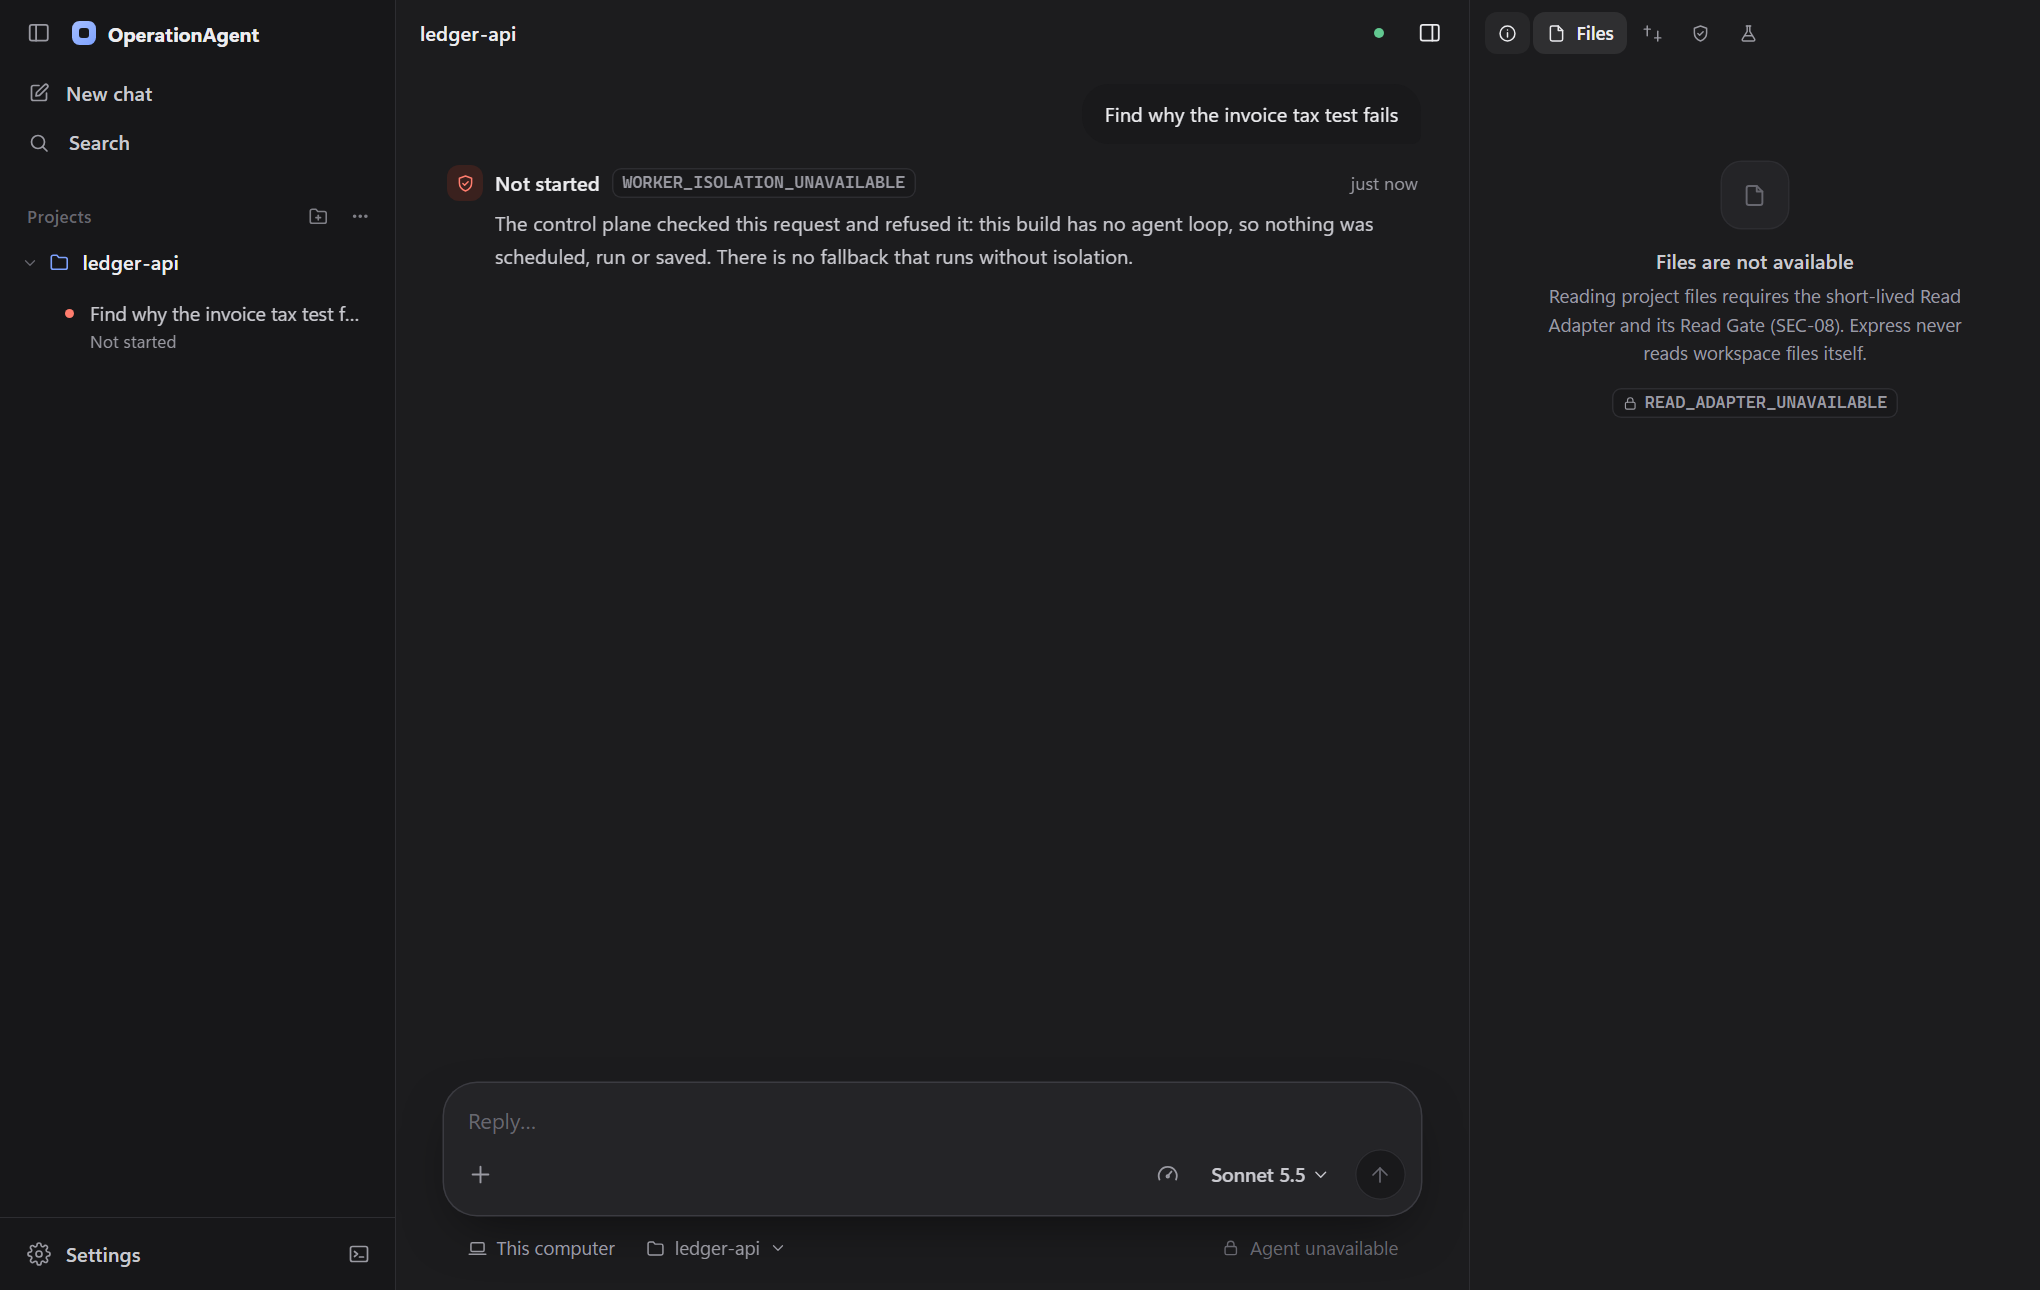
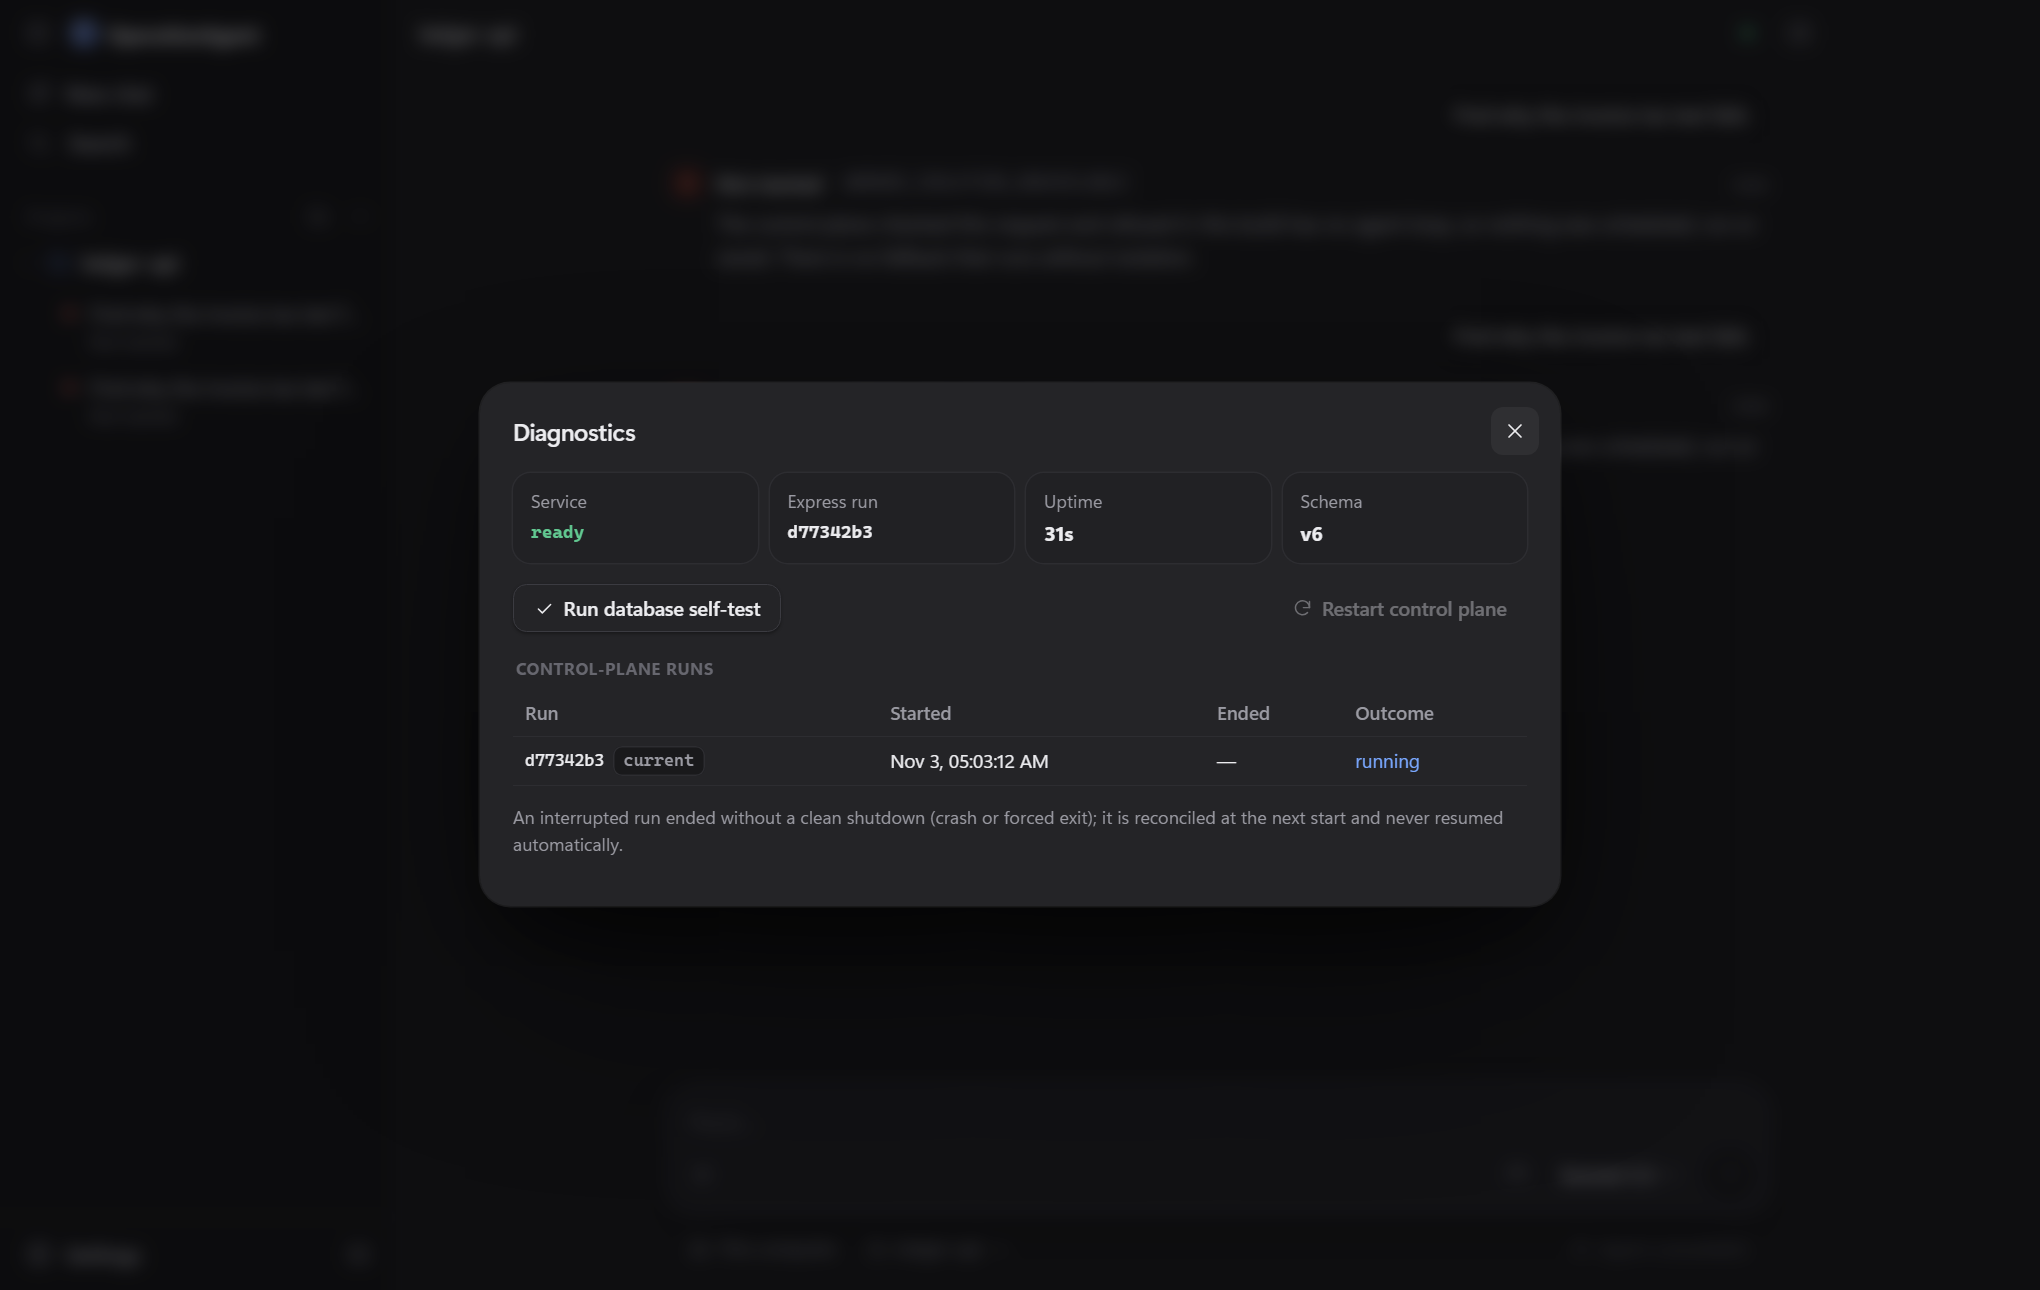
docs: README covers the M2 settings expansion, with new screenshots
Describe multi-provider settings, web-search keys, agent and MCP
configuration (stored only), interface languages and themes; list
account sign-in and custom endpoints as locked behind ADR-PROV-001;
6 migrations. Replace the screenshots with captures of this build,
in Chinese for README.md and English for README.en.md.

diff --git a/README.en.md b/README.en.md
@@ -19,23 +19,26 @@ The project is delivered in gated phases, each with evidence that can be re-chec
 - Persistence: SQLite with versioned migrations; settings, projects and run history survive restarts.
 - Projects: add, switch and remove project folders (only the path is stored; file contents are never read).
 - Task infrastructure: a task state machine, an append-only task event store, snapshot and cursor-paged APIs, and the task list and event timeline in the workbench. Because execution is not enabled yet, submitted requests are refused by the control plane and no task is created.
-- Claude model settings: choose a model; the API key is encrypted by the operating system (Electron `safeStorage`) before it is stored; connection test.
+- Model provider settings: for Anthropic, OpenAI, Google Gemini and OpenRouter you can enter an API key, load the model list and test the connection; keys for web-search providers (Exa, Tavily, Brave, Firecrawl) can be saved. Every key is encrypted by the operating system (Electron `safeStorage`) before it is stored, and the database holds only ciphertext.
+- Agent profiles and MCP server definitions: you can create and edit them, but for now they are configuration only; nothing runs, launches or connects.
+- The interface is available in English, Simplified Chinese and Japanese, with System, Light and Dark themes and eight colour palettes.
 - Diagnostics: control-plane state, a database self-test, run history and the current state of every security capability.
 - The production worker-isolation gate for Windows x64 (SEC-W01) has passed for real on a disposable CI runner.
 
 **Not implemented yet**
 
 - The agent loop: starting a task returns `WORKER_ISOLATION_UNAVAILABLE` and nothing runs.
-- Reading project files (Read Adapter), sandboxes for file writes and shell commands, approvals, MCP.
+- Reading project files (Read Adapter), sandboxes for file writes and shell commands, approvals, the web-search tool, the MCP host.
+- Account sign-in providers and custom model endpoints: proposed in [ADR-PROV-001](docs/adr/ADR-PROV-001.md) (not approved) and locked in the interface until then.
 - Process-level acceptance and SEC-W01 on macOS and Linux (currently NOT_RUN).
 
 Anything not implemented is labelled as unavailable in the interface; the app never shows a capability it doesn't have.
 
-| A task refused by the control plane | Model and credential settings |
+| A task refused by the control plane | Model provider settings |
 | --- | --- |
-| ![Task refused](docs/screenshots/task-refused.png) | ![Model settings](docs/screenshots/settings-models.png) |
+| ![Task refused](docs/screenshots/task-refused.png) | ![Model provider settings](docs/screenshots/settings-providers.png) |
 
-![Dark theme](docs/screenshots/dark-theme.png)
+![Agent profiles in the dark theme](docs/screenshots/dark-theme.png)
 
 ## Progress
 
@@ -45,7 +48,7 @@ Anything not implemented is labelled as unavailable in the interface; the app ne
 | P1 | Desktop app, control plane, persistence, worker launcher, installer and installed-app smoke test | Done (Windows x64, see the [exit report](docs/P1-EXIT-REPORT.md)) |
 | P2.0–P2.3 | Task contracts and state machine, task event store, snapshots and cursor catch-up, workbench task views | Implemented; the CI evidence for the overall P2 exit is not produced yet |
 | M1 | SEC-W01: the Windows production worker-isolation gate | Done (passes on Windows x64) |
-| M2 | Read-only agent: credentials, model gateway, model settings, Read Adapter, agent loop | In progress: credentials, model gateway and model settings are merged; a settings expansion is in review in [PR #10](https://github.com/JaxLim/OperationAgent/pull/10); Read Adapter and agent loop not started |
+| M2 | Read-only agent: credentials, model gateway, model settings, Read Adapter, agent loop | In progress: credentials, model gateway, multi-provider settings, agent and MCP configuration, and interface languages are merged; Read Adapter and agent loop not started |
 | M3 | File writes and shell: sandbox, approvals, command normalization, stop semantics | Not started |
 | M4 | Productization: MCP, signing and updates | Not started |
 
@@ -65,7 +68,7 @@ flowchart LR
 
 - **Desktop**: Electron 45, React 19, TypeScript 5.9, Vite. The renderer only draws the interface and has no access to Node, the file system or keys; the preload exposes a fixed allow-list of calls.
 - **Control plane**: Express 5 in a separate official Node.js 24 process (not Electron's bundled Node), the only reader and writer of the database. The main process establishes the service identity over an inherited channel, then forwards API calls over HMAC-authenticated loopback HTTP.
-- **Persistence**: better-sqlite3 (SQLite 3.53) with 5 versioned SQL migrations; task state and events are committed in the same transaction.
+- **Persistence**: better-sqlite3 (SQLite 3.53) with 6 versioned SQL migrations; task state and events are committed in the same transaction.
 - **Contracts**: `packages/contracts` defines the API, IPC, events and error codes with zod; unit tests cover rejection of unknown fields and illegal state transitions.
 - **Worker isolation (Windows)**: a native WorkerLauncher inside the control plane starts the worker in an AppContainer with a Job Object and talks to it over a single protected, inherited pipe (OWIP/1 framing + JSON-RPC 2.0).
 - **Credentials**: the API key is encrypted and decrypted through the main process's `safeStorage` crypto bridge and used only by the control plane when calling Anthropic; neither the worker nor the interface ever sees it in plain text.
@@ -92,7 +95,7 @@ The full architectural constraints are in [ARCHITECTURE.md](ARCHITECTURE.md) and
 
 1. Get the installer `OperationAgent-0.1.0-win-x64.exe`: build it yourself with the `package` command below, or download the `operationagent-installer-win-x64` artifact from the latest "P1 control plane checks" run on `main` under [Actions](https://github.com/JaxLim/OperationAgent/actions) (requires a GitHub sign-in).
 2. Run the installer. It isn't signed, so Windows SmartScreen may warn about an unknown publisher.
-3. Start OperationAgent from the Start menu or the desktop shortcut, add a project folder, then enter your Anthropic API key under Settings → Models & Credentials and test the connection.
+3. Start OperationAgent from the Start menu or the desktop shortcut, add a project folder, then open Settings → Providers, choose a provider (for example Anthropic), enter its API key and test the connection.
 4. Data is stored in `%APPDATA%\OperationAgent\control-plane\control-plane.sqlite` and kept when you uninstall. To uninstall, use Windows Settings → Apps.
 
 ## Run from source (Windows x64)

diff --git a/README.md b/README.md
@@ -8,7 +8,7 @@ OperationAgent 是一个**安全优先**的桌面 AI 编程 Agent，基于 Elect
 
 项目分阶段推进，每个阶段都留有可以复查的验收证据。**目前处于 M2 阶段：桌面应用、控制面、持久化和模型设置已经能用，但 Agent 还不能执行任务。**
 
-![工作台](docs/screenshots/workbench.png)
+![工作台](docs/screenshots/workbench-zh.png)
 
 ## 当前状态
 
@@ -19,23 +19,26 @@ OperationAgent 是一个**安全优先**的桌面 AI 编程 Agent，基于 Elect
 - 持久化：SQLite + 版本化迁移，设置、项目和运行记录重启后都还在。
 - 项目管理：添加、切换、移除项目文件夹（只记路径，不读取文件内容）。
 - 任务基础设施：任务状态机、只追加的任务事件存储、快照与游标分页接口，以及工作台里的任务列表和事件时间线。因为执行功能还没开放，现在提交的请求都会被控制面拒绝，不会真正创建任务。
-- Claude 模型设置：可以选模型；API Key 先由操作系统加密（Electron `safeStorage`）再保存；支持测试连接。
+- 模型供应商设置：Anthropic、OpenAI、Google Gemini、OpenRouter 均可填写 API Key、加载模型列表并测试连接；网页搜索供应商（Exa、Tavily、Brave、Firecrawl）可以保存密钥。所有密钥都先由操作系统加密（Electron `safeStorage`）再保存，数据库里只有密文。
+- Agent 配置与 MCP 服务器定义：可以新建和编辑，但目前只保存配置，不会运行、启动或连接任何东西。
+- 界面支持简体中文、English 和日本語；主题可选跟随系统、浅色或深色，另有八套配色。
 - 诊断：查看控制面状态、做数据库自检、看运行历史，以及每项安全能力目前的状态。
 - Windows x64 上的生产 Worker 隔离门禁（SEC-W01）已经在一次性 CI runner 上实测通过。
 
 **还没实现的**
 
 - Agent 推理循环（Agent Loop）：提交任务会返回 `WORKER_ISOLATION_UNAVAILABLE`，不会执行任何操作。
-- 读取项目文件（Read Adapter）、写文件与运行 Shell 的沙箱、审批流程、MCP。
+- 读取项目文件（Read Adapter）、写文件与运行 Shell 的沙箱、审批流程、网页搜索工具、MCP Host。
+- 账号登录型供应商和自定义模型端点：方案见 [ADR-PROV-001](docs/adr/ADR-PROV-001.md)（提议中，未批准），在此之前界面中保持锁定。
 - macOS 和 Linux 的进程级验收与 SEC-W01（目前为 NOT_RUN）。
 
 界面上没实现的功能都会明确标成“不可用”，不会假装能用。
 
-| 提交任务后被控制面拒绝 | 模型与凭据设置 |
+| 提交任务后被控制面拒绝 | 模型供应商设置 |
 | --- | --- |
-| ![任务被拒绝](docs/screenshots/task-refused.png) | ![模型设置](docs/screenshots/settings-models.png) |
+| ![任务被拒绝](docs/screenshots/task-refused-zh.png) | ![模型供应商设置](docs/screenshots/settings-providers-zh.png) |
 
-![深色主题](docs/screenshots/dark-theme.png)
+![深色主题下的 Agent 配置](docs/screenshots/dark-theme-zh.png)
 
 ## 进度
 
@@ -45,7 +48,7 @@ OperationAgent 是一个**安全优先**的桌面 AI 编程 Agent，基于 Elect
 | P1 | 桌面应用、控制面、持久化、Worker 启动器、安装包与安装后烟测 | 已完成（Windows x64，见 [退出报告](docs/P1-EXIT-REPORT.md)） |
 | P2.0–P2.3 | 任务契约与状态机、任务事件存储、快照与游标补拉、工作台任务视图 | 已实现；P2 整体验收所需的 CI 证据还没产出 |
 | M1 | SEC-W01：Windows 生产 Worker 隔离门禁 | 已完成（Windows x64 通过） |
-| M2 | 只读 Agent：凭据、模型网关、模型设置、Read Adapter、Agent Loop | 进行中：凭据、模型网关和模型设置已合并；设置扩展在 [PR #10](https://github.com/JaxLim/OperationAgent/pull/10) 中评审；Read Adapter 与 Agent Loop 尚未开始 |
+| M2 | 只读 Agent：凭据、模型网关、模型设置、Read Adapter、Agent Loop | 进行中：凭据、模型网关、多供应商设置、Agent 与 MCP 配置、界面多语言已合并；Read Adapter 与 Agent Loop 尚未开始 |
 | M3 | 写文件与 Shell：沙箱、审批、命令规范化、停止语义 | 未开始 |
 | M4 | 产品化：MCP、签名与升级 | 未开始 |
 
@@ -65,7 +68,7 @@ flowchart LR
 
 - **桌面端**：Electron 45、React 19、TypeScript 5.9、Vite。Renderer 只管界面，碰不到 Node、文件系统和密钥；Preload 只暴露一组固定的白名单接口。
 - **控制面**：Express 5，跑在独立的官方 Node.js 24 进程里（不用 Electron 自带的 Node），也是唯一能读写数据库的进程。主进程先通过继承的通道确认服务身份，再经 HMAC 认证的回环 HTTP 转发 API 请求。
-- **持久化**：better-sqlite3（SQLite 3.53），5 个版本化 SQL 迁移；任务状态和事件在同一事务中提交。
+- **持久化**：better-sqlite3（SQLite 3.53），6 个版本化 SQL 迁移；任务状态和事件在同一事务中提交。
 - **契约**：`packages/contracts` 用 zod 定义 API、IPC、事件和错误码，单元测试确保未知字段和非法的状态迁移都会被拒绝。
 - **Worker 隔离（Windows）**：控制面内的原生 WorkerLauncher 以 AppContainer + Job Object 启动 Worker，通过单条受保护的继承管道通信（OWIP/1 分帧 + JSON-RPC 2.0）。
 - **凭据**：API Key 的加解密都经过主进程的 `safeStorage` 加密桥，只有控制面在请求 Anthropic 时才会用到，Worker 和界面都拿不到明文。
@@ -92,7 +95,7 @@ docs/            路线图、验收标准、执行记录、ADR 与证据
 
 1. 获取安装包 `OperationAgent-0.1.0-win-x64.exe`：按下文用 `package` 命令自行构建，或在 [Actions](https://github.com/JaxLim/OperationAgent/actions) 里 `main` 分支最近一次 “P1 control plane checks” 运行中下载 `operationagent-installer-win-x64` 产物（需要登录 GitHub）。
 2. 运行安装包。安装包没有签名，Windows SmartScreen 可能会提示“未知发布者”。
-3. 从开始菜单或桌面快捷方式打开 OperationAgent，添加一个项目文件夹，然后在“Settings → Models & Credentials”里填入 Anthropic API Key，再测试一下连接。
+3. 从开始菜单或桌面快捷方式打开 OperationAgent，添加一个项目文件夹，然后在“设置 → 供应商”里选择一个供应商（例如 Anthropic），填入 API Key 并测试连接。
 4. 数据保存在 `%APPDATA%\OperationAgent\control-plane\control-plane.sqlite`，卸载后仍会保留。卸载请到 Windows“设置 → 应用”。
 
 ## 从源码运行（Windows x64）
